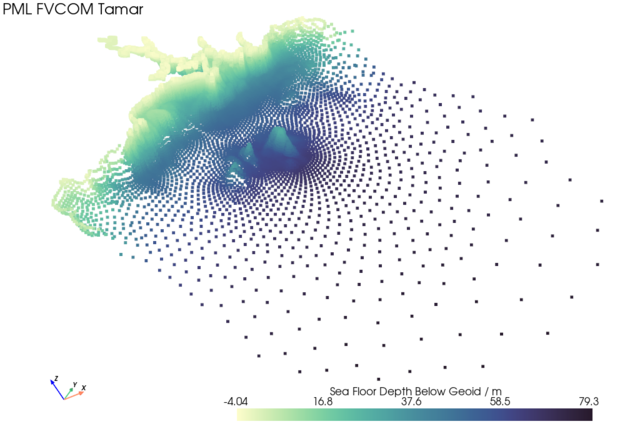
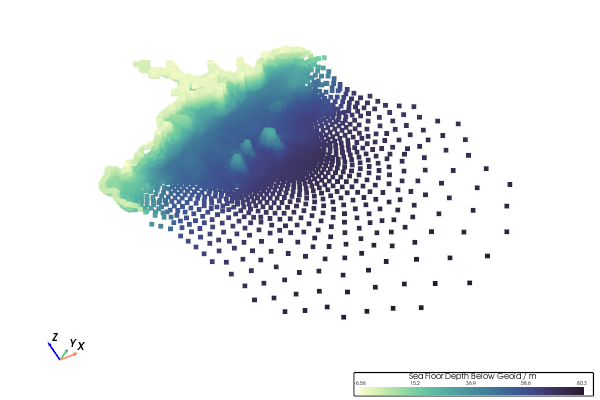
update key-bindings images/gifs (#1684)
* update key-bindings images/gifs

* add changelog news fragment

---------

diff --git a/README.md b/README.md
@@ -1,6 +1,6 @@
 <p align="center">
   <a href="https://github.com/bjlittle/geovista#--------">
-    <img src="https://raw.githubusercontent.com/bjlittle/geovista-media/2025.09.0/media/branding/title/geovista-title.svg"
+    <img src="https://raw.githubusercontent.com/bjlittle/geovista-media/2025.09.1/media/branding/title/geovista-title.svg"
          alt="GeoVista"
          style="width: 50%; height: 50%"></a>
 </p>
@@ -172,7 +172,7 @@ p.show()
 </details>
 
 <p align="center">
-  <img src="https://raw.githubusercontent.com/bjlittle/geovista-media/2025.09.0/media/readme/ww3-tri.png"
+  <img src="https://raw.githubusercontent.com/bjlittle/geovista-media/2025.09.1/media/readme/ww3-tri.png"
        alt="WAVEWATCH III Model, Unstructured Triangular Mesh of Sea Surface Wave Significant Height"
        style="width: 75%; height: 75%">
 </p>
@@ -219,7 +219,7 @@ p.show()
 </details>
 
 <p align="center">
-  <img src="https://raw.githubusercontent.com/bjlittle/geovista-media/2025.09.0/media/readme/tamar.png"
+  <img src="https://raw.githubusercontent.com/bjlittle/geovista-media/2025.09.1/media/readme/tamar.png"
        alt="Finite Volume Community Ocean Model, Unstructured Triangular Mesh of Sea Floor Below Geoid"
        style="width: 75%; height: 75%">
 </p>
@@ -272,7 +272,7 @@ p.show()
 </details>
 
 <p align="center">
-  <img src="https://raw.githubusercontent.com/bjlittle/geovista-media/2025.09.0/media/readme/lam-moll.png"
+  <img src="https://raw.githubusercontent.com/bjlittle/geovista-media/2025.09.1/media/readme/lam-moll.png"
        alt="CF UGRID Local Area Model, Unstructured Quadrilateral Mesh of Air Potential Temperature"
        style="width: 75%; height: 75%">
 </p>
@@ -320,7 +320,7 @@ p.show()
 </details>
 
 <p align="center">
-  <img src="https://raw.githubusercontent.com/bjlittle/geovista-media/2025.09.0/media/readme/lam-eqc.png"
+  <img src="https://raw.githubusercontent.com/bjlittle/geovista-media/2025.09.1/media/readme/lam-eqc.png"
        alt="CF UGRID Local Area Model, Unstructured Quadrilateral Mesh of Air Potential Temperature in Plate Carrée Projection"
        style="width: 75%; height: 75%">
 </p>
@@ -364,7 +364,7 @@ p.show()
 </details>
 
 <p align="center">
-  <img src="https://raw.githubusercontent.com/bjlittle/geovista-media/2025.09.0/media/readme/lfric-robin.png"
+  <img src="https://raw.githubusercontent.com/bjlittle/geovista-media/2025.09.1/media/readme/lfric-robin.png"
        alt="LFRic Model, Unstructured Cube Sphere of Surface Temperature in Robinson Projection"
        style="width: 75%; height: 75%">
 </p>
@@ -406,7 +406,7 @@ p.show()
 </details>
 
 <p align="center">
-  <img src="https://raw.githubusercontent.com/bjlittle/geovista-media/2025.09.0/media/readme/nemo-orca.png"
+  <img src="https://raw.githubusercontent.com/bjlittle/geovista-media/2025.09.1/media/readme/nemo-orca.png"
        alt="NEMO ORCA2 Model, Curvilinear Quadrilateral Mesh of Sea Water Potential Temperature"
        style="width: 75%; height: 75%">
 </p>
@@ -448,7 +448,7 @@ p.show()
 </details>
 
 <p align="center">
-  <img src="https://raw.githubusercontent.com/bjlittle/geovista-media/2025.09.0/media/readme/oisst-avhrr.png"
+  <img src="https://raw.githubusercontent.com/bjlittle/geovista-media/2025.09.1/media/readme/oisst-avhrr.png"
        alt="Optimum Interpolation Sea Surface Temperature Advanced Very High Resolution Radiometer Model, Rectilinear Quadrilateral Mesh"
        style="width: 75%; height: 75%">
 </p>
@@ -487,7 +487,7 @@ p.show()
 </details>
 
 <p align="center">
-  <img src="https://raw.githubusercontent.com/bjlittle/geovista-media/2025.09.0/media/readme/dynamico-icosahedral.png"
+  <img src="https://raw.githubusercontent.com/bjlittle/geovista-media/2025.09.1/media/readme/dynamico-icosahedral.png"
        alt="DYNAMICO Model, Unstructured Hexagonal Mesh of Surface Air Temperature"
        style="width: 75%; height: 75%">
 </p>

diff --git a/docs/src/reference/bindings.rst b/docs/src/reference/bindings.rst
@@ -98,51 +98,57 @@ Primary keyboard and mouse bindings that control the rendered scene.
 .. |fvcom-s| image::  ../_static/images/fvcom-surface.png
     :scale: 30%
     :align: middle
+    :width: 600
+    :height: 400
     :alt: FVCOM surface
 
 .. |fvcom-w| image:: ../_static/images/fvcom-wireframe.png
     :scale: 30%
     :align: middle
+    :width: 600
+    :height: 400
     :alt: FVCOM wireframe
 
 .. |fvcom-p| image:: ../_static/images/fvcom-points.png
     :scale: 30%
     :align: middle
+    :width: 600
+    :height: 400
     :alt: FVCOM points
 
-.. |fvcom-f| image:: https://raw.githubusercontent.com/bjlittle/geovista-media/2025.09.0/media/docs/fvcom-f.gif
+.. |fvcom-f| image:: https://raw.githubusercontent.com/bjlittle/geovista-media/2025.09.1/media/docs/fvcom-f.gif
     :scale: 30%
     :align: middle
-    :width: 640
-    :height: 480
+    :width: 600
+    :height: 400
     :alt: Camera Follow
 
-.. |fvcom-3d| image:: https://raw.githubusercontent.com/bjlittle/geovista-media/2025.09.0/media/docs/fvcom-rotate-3d.gif
+.. |fvcom-3d| image:: https://raw.githubusercontent.com/bjlittle/geovista-media/2025.09.1/media/docs/fvcom-rotate-3d.gif
     :scale: 30%
     :align: middle
-    :width: 640
-    :height: 480
+    :width: 600
+    :height: 400
     :alt: Rotate 3-D
 
-.. |fvcom-2d| image:: https://raw.githubusercontent.com/bjlittle/geovista-media/2025.09.0/media/docs/fvcom-rotate-2d.gif
+.. |fvcom-2d| image:: https://raw.githubusercontent.com/bjlittle/geovista-media/2025.09.1/media/docs/fvcom-rotate-2d.gif
     :scale: 30%
     :align: middle
-    :width: 640
-    :height: 480
+    :width: 600
+    :height: 400
     :alt: Rotate 2-D
 
-.. |fvcom-pan| image:: https://raw.githubusercontent.com/bjlittle/geovista-media/2025.09.0/media/docs/fvcom-pan.gif
+.. |fvcom-pan| image:: https://raw.githubusercontent.com/bjlittle/geovista-media/2025.09.1/media/docs/fvcom-pan.gif
     :scale: 30%
     :align: middle
-    :width: 640
-    :height: 480
+    :width: 600
+    :height: 400
     :alt: Camera Pan
 
-.. |fvcom-zoom| image:: https://raw.githubusercontent.com/bjlittle/geovista-media/2025.09.0/media/docs/fvcom-zoom.gif
+.. |fvcom-zoom| image:: https://raw.githubusercontent.com/bjlittle/geovista-media/2025.09.1/media/docs/fvcom-zoom.gif
     :scale: 30%
     :align: middle
-    :width: 640
-    :height: 480
+    :width: 600
+    :height: 400
     :alt: Camera Zoom
 
 

diff --git a/changelog/1676.documentation.rst b/changelog/1676.documentation.rst
@@ -1,2 +1,2 @@
-Refreshed ``README.md`` with latest static renders for plotting examples.
+Refreshed ``README.md`` plotting example images.
 (:user:`bjlittle`)

diff --git a/changelog/1684.documentation.rst b/changelog/1684.documentation.rst
@@ -1,0 +1,2 @@
+Refreshed :ref:`tippy-gv-reference-bindings` GIFs and static images.
+(:user:`bjlittle`)
